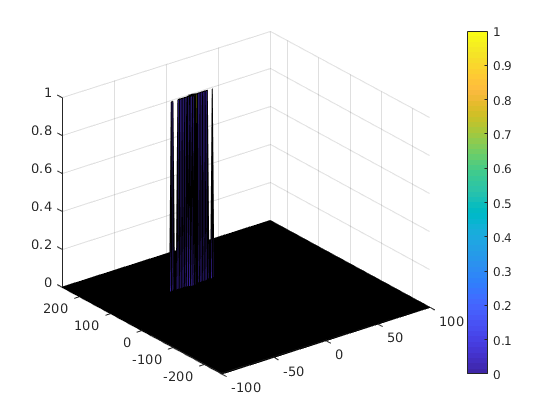
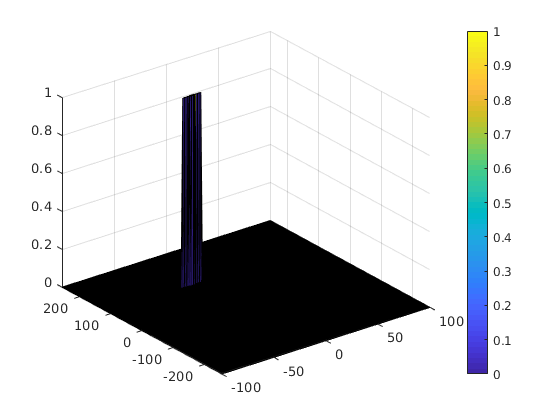
fix error computation of training cells

Changed region(s): [[0.3036, 0.2167, 0.3946, 0.7119]]

diff --git a/project_radar_target_generation_and_detection.m b/project_radar_target_generation_and_detection.m
@@ -82,6 +82,7 @@ for i=1:length(t)
     
 end
 
+
 %% RANGE MEASUREMENT
 
 
@@ -114,7 +115,7 @@ subplot(2,1,1)
  f = Nr *(0:(Nr/2))/Nr;
 plot(f, P1);
  
-axis ([0 200 0 1]);
+axis ([0 200 0 0.5]);
 
 
 
@@ -164,7 +165,7 @@ Gd = 3;
 
 % *%TODO* :
 % offset the threshold by SNR value in dB
-offset = 4.8;
+offset = 4;
 
 % *%TODO* :
 %Create a vector to store noise_level for each iteration on training cells
@@ -187,9 +188,10 @@ for i = 1:(row-(Gr+Tr))
    for j = 1:(col-(Gd+Td))
    % Use RDM[x,y] as the matrix from the output of 2D FFT for implementing
    % CFAR
-       noise = db2pow(RDM(i:i+Tr-1,j:j+Td-1));
-       noise_level = sum(sum(noise));
-       average = pow2db(noise_level/(Tr*Td));
+       noise_include_guard = db2pow(RDM(i:i+Tr+Gr-1,j:j+Td+Gd-1));
+       noise_guard = db2pow(RDM(i+Tr:i+Tr+Gr-1,j+Td:j+Td+Gd-1));
+       noise_level = sum(sum(noise_include_guard))-sum(sum(noise_guard));
+       average = pow2db(noise_level/((Tr+Gr)*(Td+Gd)-Tr*Td));
        threshold = average + offset;
        signal = RDM(i+Tr+Gr,j+Td+Gd);
        

diff --git a/README.md b/README.md
@@ -6,8 +6,8 @@
 ![whole porject process](images/project_layout.png)
 
 ### 1. Configure the FMCW waveform based on the system requirements.
-###     set the range resolution, maximum range, define the target's initial position and velocity,in the project, velocity is constant.
-###     c is speed of light, B_sweep is The sweep bandwidth, T_chirp is the sweep time, fc is the carrier frequency of radar, 77GHz.
+####     set the range resolution, maximum range, define the target's initial position and velocity,in the project, velocity is constant.
+####     c is speed of light, B_sweep is the sweep bandwidth, T_chirp is the sweep time, fc is the carrier frequency of radar, 77GHz.
 - initial position 110m
 - initial velocity -20m
 - B_sweep = c /(2∗rangeResolution)
@@ -30,11 +30,19 @@
 - Keep one half of the signal
 - Plot the output
 - There should be a peak at the initial position of the target
-### Range FFT output
+#### Range FFT output
 ![Range FFT](images/Range_FFT.png)
 
 ### 4. perform the 2D CFAR processing on the output of 2nd FFT to display the target.
-- Determine the number of Training cells for each dimension. Similarly, pick the number of guard cells.
+- Determine the number of Training cells for each dimension. Similarly, pick the number of guard cells. in my case
+```
+%Select the number of Training Cells in both the dimensions.
+Tr = 20;
+Td = 10;
+%Select the number of Guard Cells in both dimensions around the Cell under test (CUT) for accurate estimation
+Gr = 6;
+Gd = 3;
+```
 - Slide the cell under test across the complete matrix. Make sure the CUT has margin for Training and Guard cells from the edges.
 - For every iteration sum the signal level within all the training cells. To sum convert the value from logarithmic to linear using db2pow function.
 - Average the summed values for all of the training cells used. After averaging convert it back to logarithmic using pow2db.
@@ -42,5 +50,5 @@
 - Next, compare the signal under CUT against this threshold.
 If the CUT level > threshold assign it a value of 1, else equate it to 0.
 
-### 2D CFAR output
+#### 2D CFAR output
 ![2D_CFAR](images/CFAR.png)
